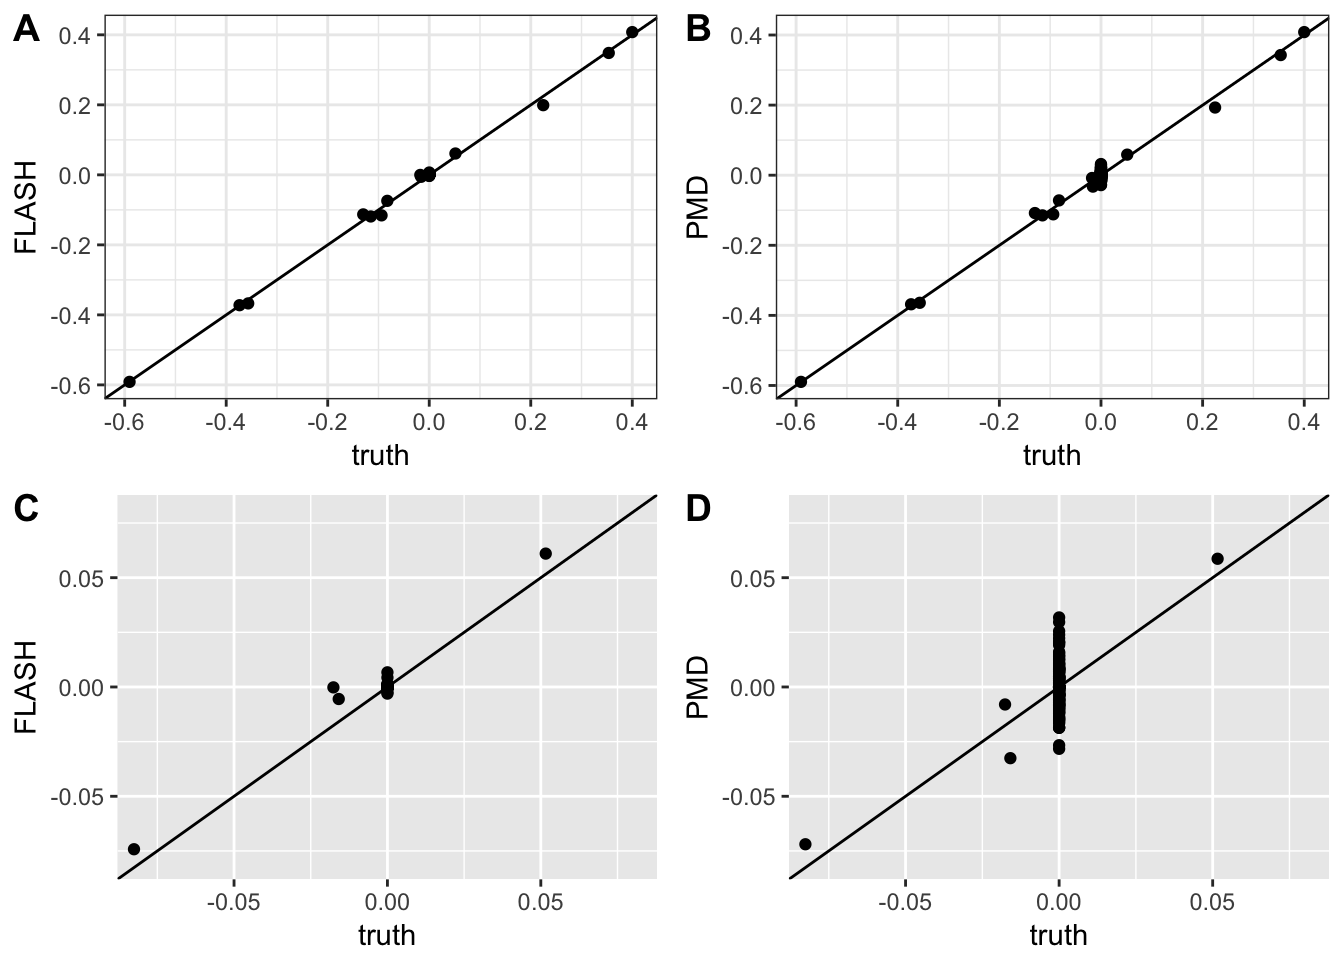
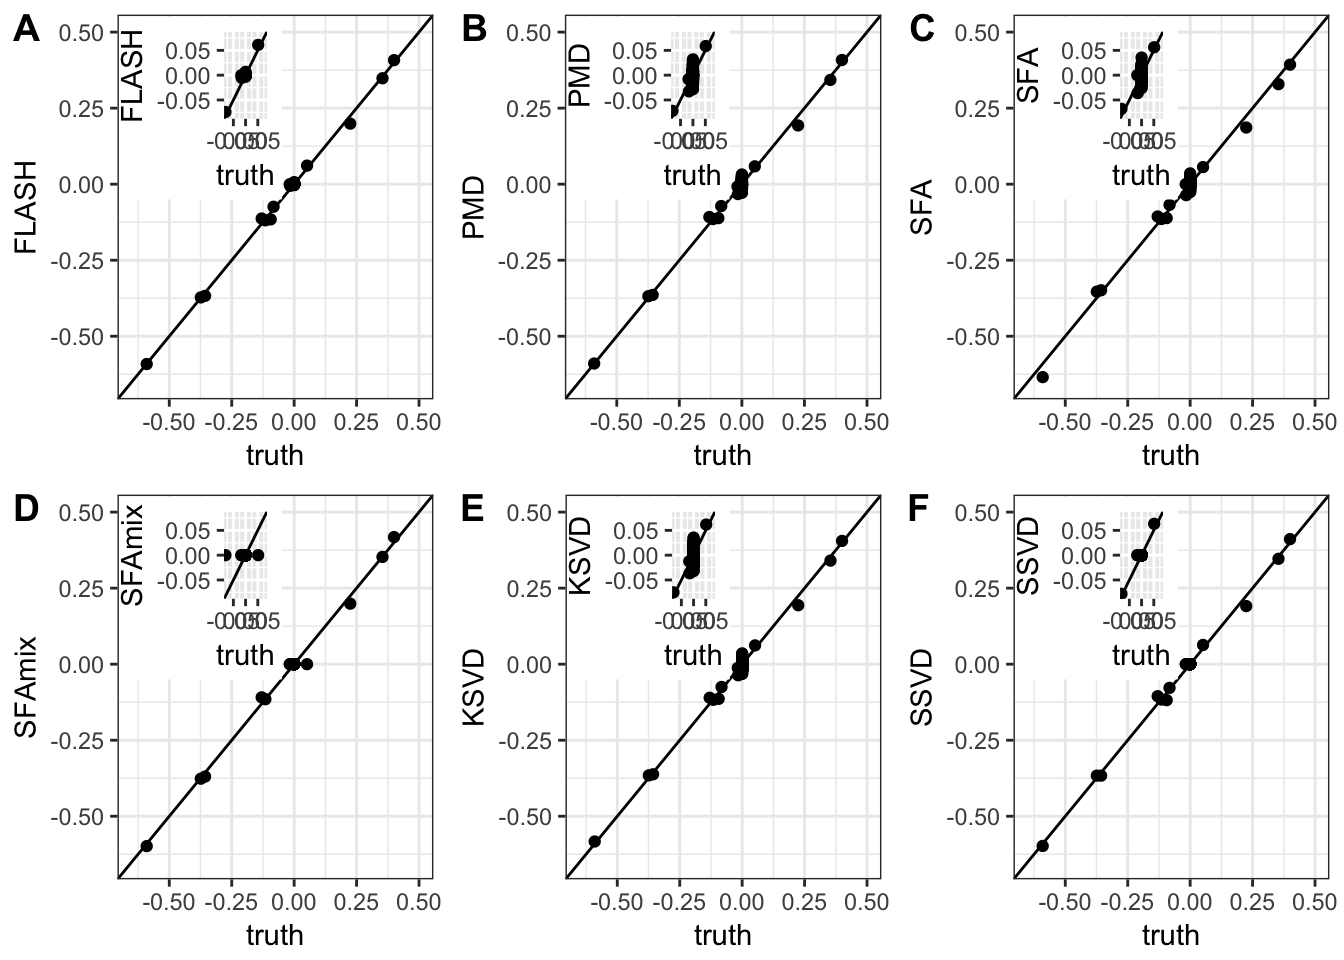
Build site.

diff --git a/docs/applyflahr2onsimulations.html b/docs/applyflahr2onsimulations.html
@@ -329,10 +329,10 @@ div.tocify {
 shared across the workflowr files. -->
 <!-- Update knitr chunk options -->
 <!-- Insert the date the file was last updated -->
-<p><strong>Last updated:</strong> 2017-09-28</p>
+<p><strong>Last updated:</strong> 2017-09-29</p>
 <!-- Insert the code version (Git commit SHA1) if Git repository exists and R
  package git2r is installed -->
-<p><strong>Code version:</strong> 89dcb85</p>
+<p><strong>Code version:</strong> dc45d5f</p>
 <!-- Add your analysis here -->
 <div id="rank-1-data-set" class="section level2">
 <h2>rank 1 data set</h2>
@@ -389,13 +389,12 @@ zoomed2 = ggplot(df1, aes(x = truth, y = PMD)) +
 g2 &lt;- ggplotGrob(zoomed2)
 base2 +annotation_custom(grob = g2, xmin = -0.6, xmax = -0.1, ymin = -0.05, ymax = 0.45)</code></pre>
 <p><img src="figure/applyflahr2onsimulations.Rmd/unnamed-chunk-2-2.png" width="672" style="display: block; margin: auto;" /></p>
-<pre class="r"><code>plot_grid(base1, base2, zoomed1,zoomed2, labels = &quot;AUTO&quot;, ncol = 2)
+<pre class="r"><code># plot_grid(base1, base2, zoomed1,zoomed2, labels = &quot;AUTO&quot;, ncol = 2)
 
 
 
-gsfamix_1 = readRDS(&quot;../data/simulation/rankone/highsparse/sfamix_res.rds&quot;)</code></pre>
-<p><img src="figure/applyflahr2onsimulations.Rmd/unnamed-chunk-2-3.png" width="672" style="display: block; margin: auto;" /></p>
-<pre class="r"><code>gsvd = svd(Data$Y)
+gsfamix_1 = readRDS(&quot;../data/simulation/rankone/highsparse/sfamix_res.rds&quot;)
+gsvd = svd(Data$Y)
 gsfa = readRDS(&quot;../data/simulation/rankone/highsparse/sfa_res.rds&quot;)
 
 # to get the KSVD result
@@ -411,28 +410,8 @@ loading_Dic = res_KSVD$result[[2]]
 MSE_KSVD = sqrt(mean(( Dic %*% loading_Dic - Data$L_true%*%t(Data$F_true))^2))/sqrt(mean((Data$L_true%*%t(Data$F_true))^2))
 
 # add ssvd into comparison 
-gssvd = ssvd::ssvd(Data$Y,method = &quot;method&quot;)</code></pre>
-<pre><code>Warning in error.est(x.scaled, u.old, v.cur, n.boot = n.boot): error.est:
-dense
-
-Warning in error.est(x.scaled, u.old, v.cur, n.boot = n.boot): error.est:
-dense
-
-Warning in error.est(x.scaled, u.old, v.cur, n.boot = n.boot): error.est:
-dense
-
-Warning in error.est(x.scaled, u.old, v.cur, n.boot = n.boot): error.est:
-dense
-
-Warning in error.est(x.scaled, u.old, v.cur, n.boot = n.boot): error.est:
-dense
-
-Warning in error.est(x.scaled, u.old, v.cur, n.boot = n.boot): error.est:
-dense
-
-Warning in error.est(x.scaled, u.old, v.cur, n.boot = n.boot): error.est:
-dense</code></pre>
-<pre class="r"><code>MSE_SSVD = sqrt(mean(( gssvd$d * (gssvd$u %*% t(gssvd$v)) - Data$L_true%*%t(Data$F_true))^2))/sqrt(mean((Data$L_true%*%t(Data$F_true))^2))
+gssvd = ssvd::ssvd(Data$Y,method = &quot;method&quot;)
+MSE_SSVD = sqrt(mean(( gssvd$d * (gssvd$u %*% t(gssvd$v)) - Data$L_true%*%t(Data$F_true))^2))/sqrt(mean((Data$L_true%*%t(Data$F_true))^2))
 
 
 library(ggplot2)
@@ -467,7 +446,6 @@ for(i in 2:7){
 plot_grid(pic_list[[1]], pic_list[[2]], 
           pic_list[[3]], pic_list[[4]], 
           pic_list[[5]], pic_list[[6]],  labels = &quot;AUTO&quot;, ncol = 3)</code></pre>
-<p><img src="figure/applyflahr2onsimulations.Rmd/unnamed-chunk-2-4.png" width="672" style="display: block; margin: auto;" /></p>
 </div>
 <div id="intermediate-sparse" class="section level3">
 <h3>intermediate sparse</h3>
@@ -504,40 +482,9 @@ MSE_KSVD = sqrt(mean(( Dic %*% loading_Dic - Data$L_true%*%t(Data$F_true))^2))/s
 
 
 # add ssvd into comparison 
-gssvd = ssvd::ssvd(Data$Y,method = &quot;method&quot;)</code></pre>
-<pre><code>Warning in error.est(x.scaled, u.old, v.cur, n.boot = n.boot): error.est:
-dense</code></pre>
-<pre><code>Warning in error.est(t(x.scaled), v.old, u.cur, n.boot = n.boot):
-error.est: dense</code></pre>
-<pre><code>Warning in error.est(x.scaled, u.old, v.cur, n.boot = n.boot): error.est:
-dense</code></pre>
-<pre><code>Warning in error.est(t(x.scaled), v.old, u.cur, n.boot = n.boot):
-error.est: dense</code></pre>
-<pre><code>Warning in error.est(x.scaled, u.old, v.cur, n.boot = n.boot): error.est:
-dense</code></pre>
-<pre><code>Warning in error.est(t(x.scaled), v.old, u.cur, n.boot = n.boot):
-error.est: dense</code></pre>
-<pre><code>Warning in error.est(x.scaled, u.old, v.cur, n.boot = n.boot): error.est:
-dense</code></pre>
-<pre><code>Warning in error.est(t(x.scaled), v.old, u.cur, n.boot = n.boot):
-error.est: dense</code></pre>
-<pre><code>Warning in error.est(x.scaled, u.old, v.cur, n.boot = n.boot): error.est:
-dense</code></pre>
-<pre><code>Warning in error.est(t(x.scaled), v.old, u.cur, n.boot = n.boot):
-error.est: dense</code></pre>
-<pre><code>Warning in error.est(x.scaled, u.old, v.cur, n.boot = n.boot): error.est:
-dense</code></pre>
-<pre><code>Warning in error.est(t(x.scaled), v.old, u.cur, n.boot = n.boot):
-error.est: dense</code></pre>
-<pre><code>Warning in error.est(x.scaled, u.old, v.cur, n.boot = n.boot): error.est:
-dense</code></pre>
-<pre><code>Warning in error.est(t(x.scaled), v.old, u.cur, n.boot = n.boot):
-error.est: dense</code></pre>
-<pre><code>Warning in error.est(x.scaled, u.old, v.cur, n.boot = n.boot): error.est:
-dense</code></pre>
-<pre><code>Warning in error.est(t(x.scaled), v.old, u.cur, n.boot = n.boot):
-error.est: dense</code></pre>
-<pre class="r"><code>library(ggplot2)
+gssvd = ssvd::ssvd(Data$Y,method = &quot;method&quot;)
+
+library(ggplot2)
 library(grid)
 # zoom bounding box
 xlim &lt;- c(-0.1,0.1); ylim &lt;- c(-0.1,0.1)
@@ -669,12 +616,8 @@ Y = L_true %*% t(F_true) + E
 
 
 data = flashr2::flash_set_data(Y)
-f_greedy = flashr2::flash_add_greedy(data,Kmax=10)</code></pre>
-<pre><code>fitting factor/loading 1</code></pre>
-<pre><code>fitting factor/loading 2</code></pre>
-<pre><code>fitting factor/loading 3</code></pre>
-<pre><code>fitting factor/loading 4</code></pre>
-<pre class="r"><code>g_b_flash = flashr2::flash_backfit(data,f_greedy)
+f_greedy = flashr2::flash_add_greedy(data,Kmax=10)
+g_b_flash = flashr2::flash_backfit(data,f_greedy)
 
 
 outcv = PMA.wrapper(Y,10,K = 3)</code></pre>
@@ -833,40 +776,6 @@ outcv = PMA.wrapper(Y,10,K = 3)</code></pre>
 1234567891011121314151617181920</code></pre>
 <pre class="r"><code>library(ssvd)
 gssvd = ssvd(Y,r = 3)</code></pre>
-<pre><code>Warning in if (method == &quot;theory&quot;) {: the condition has length &gt; 1 and only
-the first element will be used</code></pre>
-<pre><code>Warning in if (method == &quot;theory&quot;) {: the condition has length &gt; 1 and only
-the first element will be used</code></pre>
-<pre><code>Warning in if (method == &quot;method&quot;) {: the condition has length &gt; 1 and only
-the first element will be used</code></pre>
-<pre><code>Warning in if (method == &quot;theory&quot;) {: the condition has length &gt; 1 and only
-the first element will be used</code></pre>
-<pre><code>Warning in if (method == &quot;method&quot;) {: the condition has length &gt; 1 and only
-the first element will be used</code></pre>
-<pre><code>Warning in if (method == &quot;theory&quot;) {: the condition has length &gt; 1 and only
-the first element will be used</code></pre>
-<pre><code>Warning in if (method == &quot;theory&quot;) {: the condition has length &gt; 1 and only
-the first element will be used</code></pre>
-<pre><code>Warning in if (method == &quot;theory&quot;) {: the condition has length &gt; 1 and only
-the first element will be used</code></pre>
-<pre><code>Warning in if (method == &quot;theory&quot;) {: the condition has length &gt; 1 and only
-the first element will be used</code></pre>
-<pre><code>Warning in if (method == &quot;theory&quot;) {: the condition has length &gt; 1 and only
-the first element will be used</code></pre>
-<pre><code>Warning in if (method == &quot;theory&quot;) {: the condition has length &gt; 1 and only
-the first element will be used</code></pre>
-<pre><code>Warning in if (method == &quot;theory&quot;) {: the condition has length &gt; 1 and only
-the first element will be used</code></pre>
-<pre><code>Warning in if (method == &quot;theory&quot;) {: the condition has length &gt; 1 and only
-the first element will be used</code></pre>
-<pre><code>Warning in if (method == &quot;theory&quot;) {: the condition has length &gt; 1 and only
-the first element will be used</code></pre>
-<pre><code>Warning in if (method == &quot;theory&quot;) {: the condition has length &gt; 1 and only
-the first element will be used</code></pre>
-<pre><code>Warning in if (method == &quot;theory&quot;) {: the condition has length &gt; 1 and only
-the first element will be used</code></pre>
-<pre><code>Warning in if (method == &quot;theory&quot;) {: the condition has length &gt; 1 and only
-the first element will be used</code></pre>
 <pre class="r"><code>library(reshape2)
 melted_cormat_1 &lt;- melt(G, na.rm = TRUE)
 melted_cormat_2 &lt;- melt(g_b_flash$EL %*% t(g_b_flash$EF), na.rm = TRUE)

diff --git a/docs/index.html b/docs/index.html
@@ -236,6 +236,13 @@ $(document).ready(function () {
 <p>This is a simple test <a href="flash_beta_test.html">first try</a></p>
 <p>Initialization issue: <a href="missingimputeinitial.html">softimpute as initialization</a></p>
 <p>Click here to find the <a href="NULLcheck.html">null check for flashr2</a> and <a href="nullcheck2.html">densen nu case</a></p>
+<div id="apply-flashr2-for-the-examples-in-flash-paper" class="section level3">
+<h3>apply flashr2 for the examples in FLASH paper</h3>
+<div id="simulations" class="section level4">
+<h4>simulations</h4>
+<p>Click here to check the <a href="applyflahr2onsimulations.html">simulatoin result (rank one and rank three)</a></p>
+</div>
+</div>
 </div>
 
 <hr>
